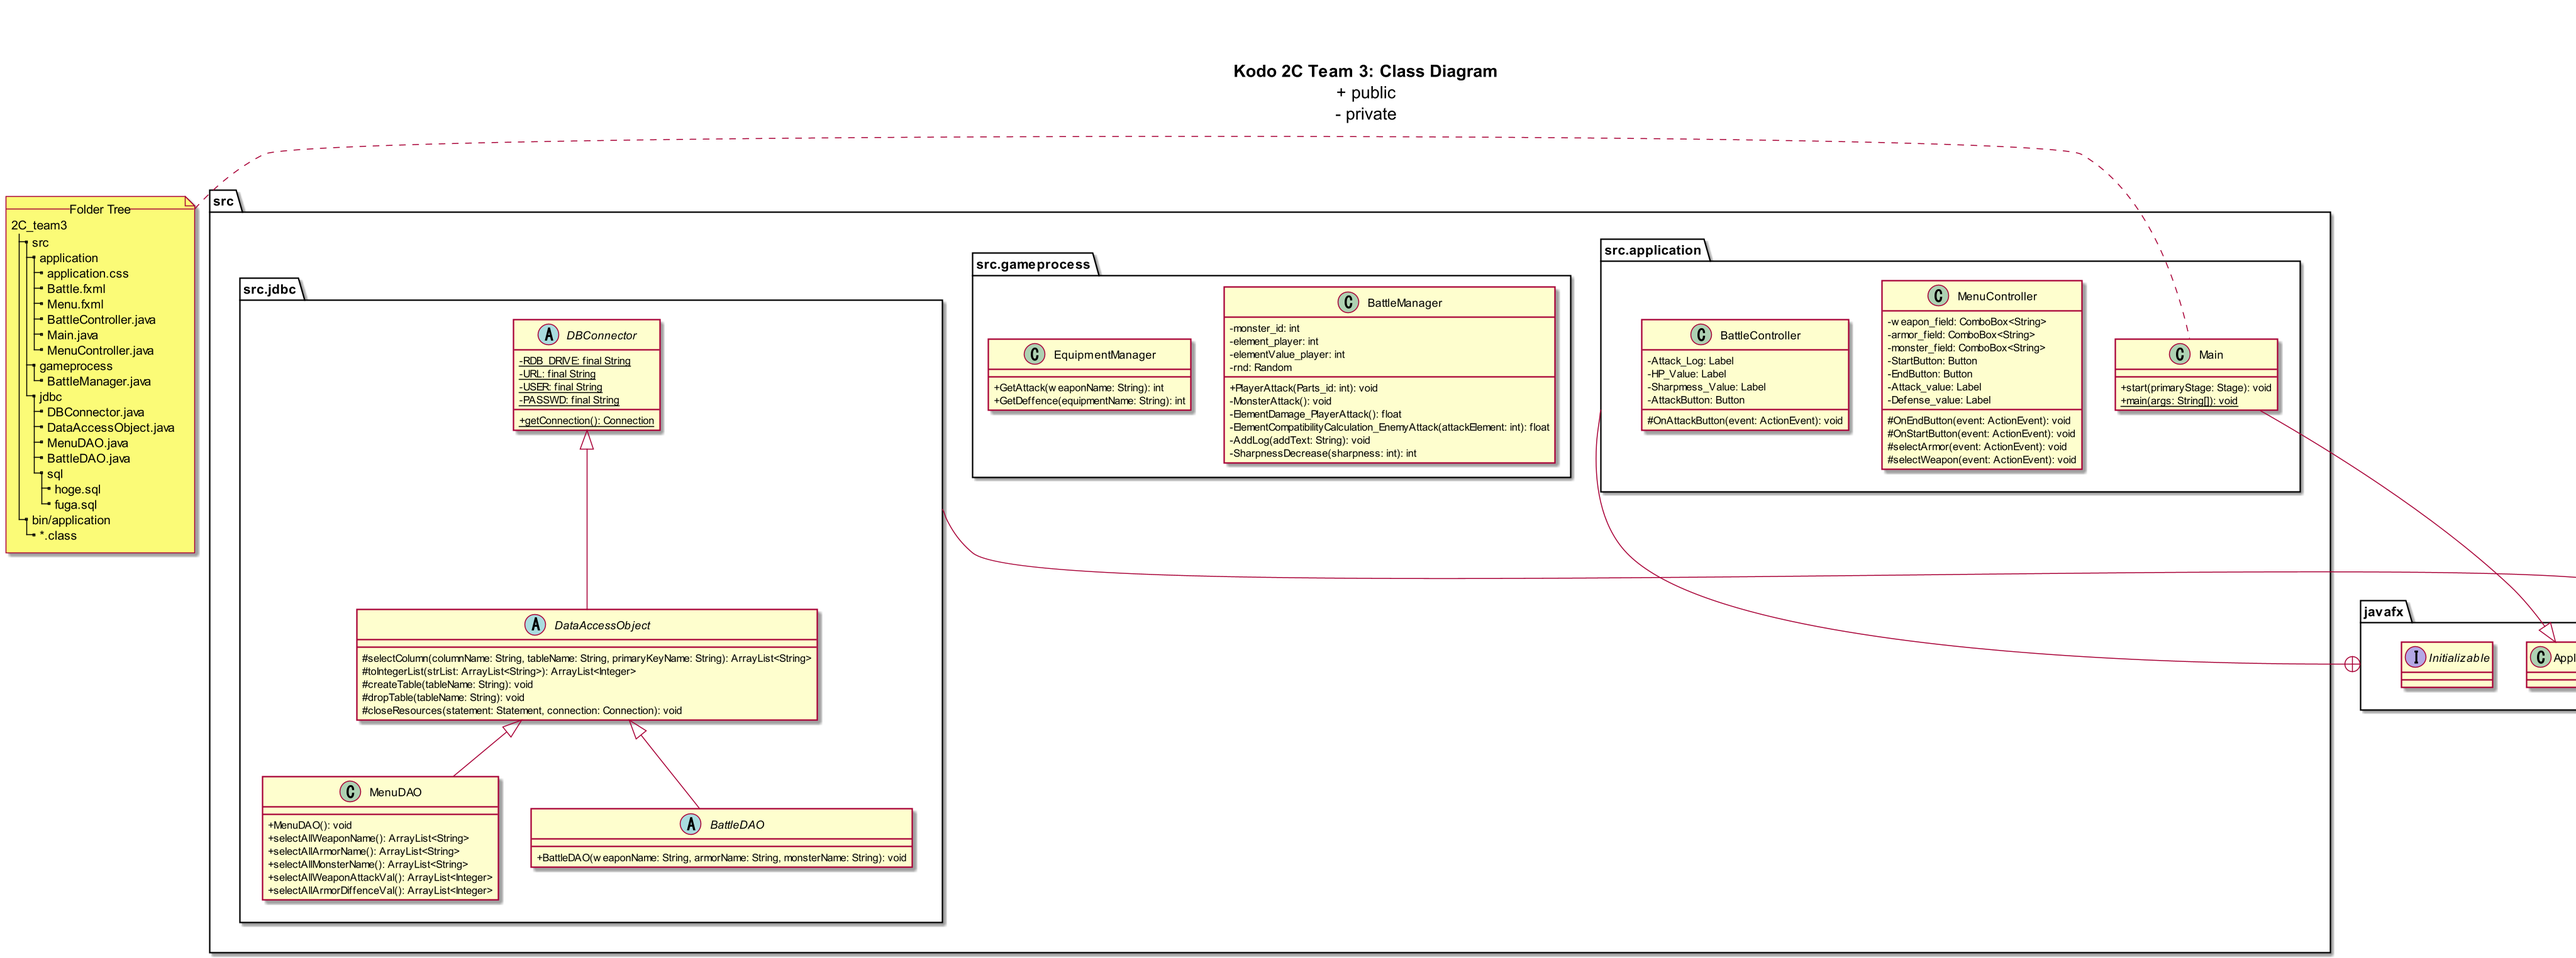
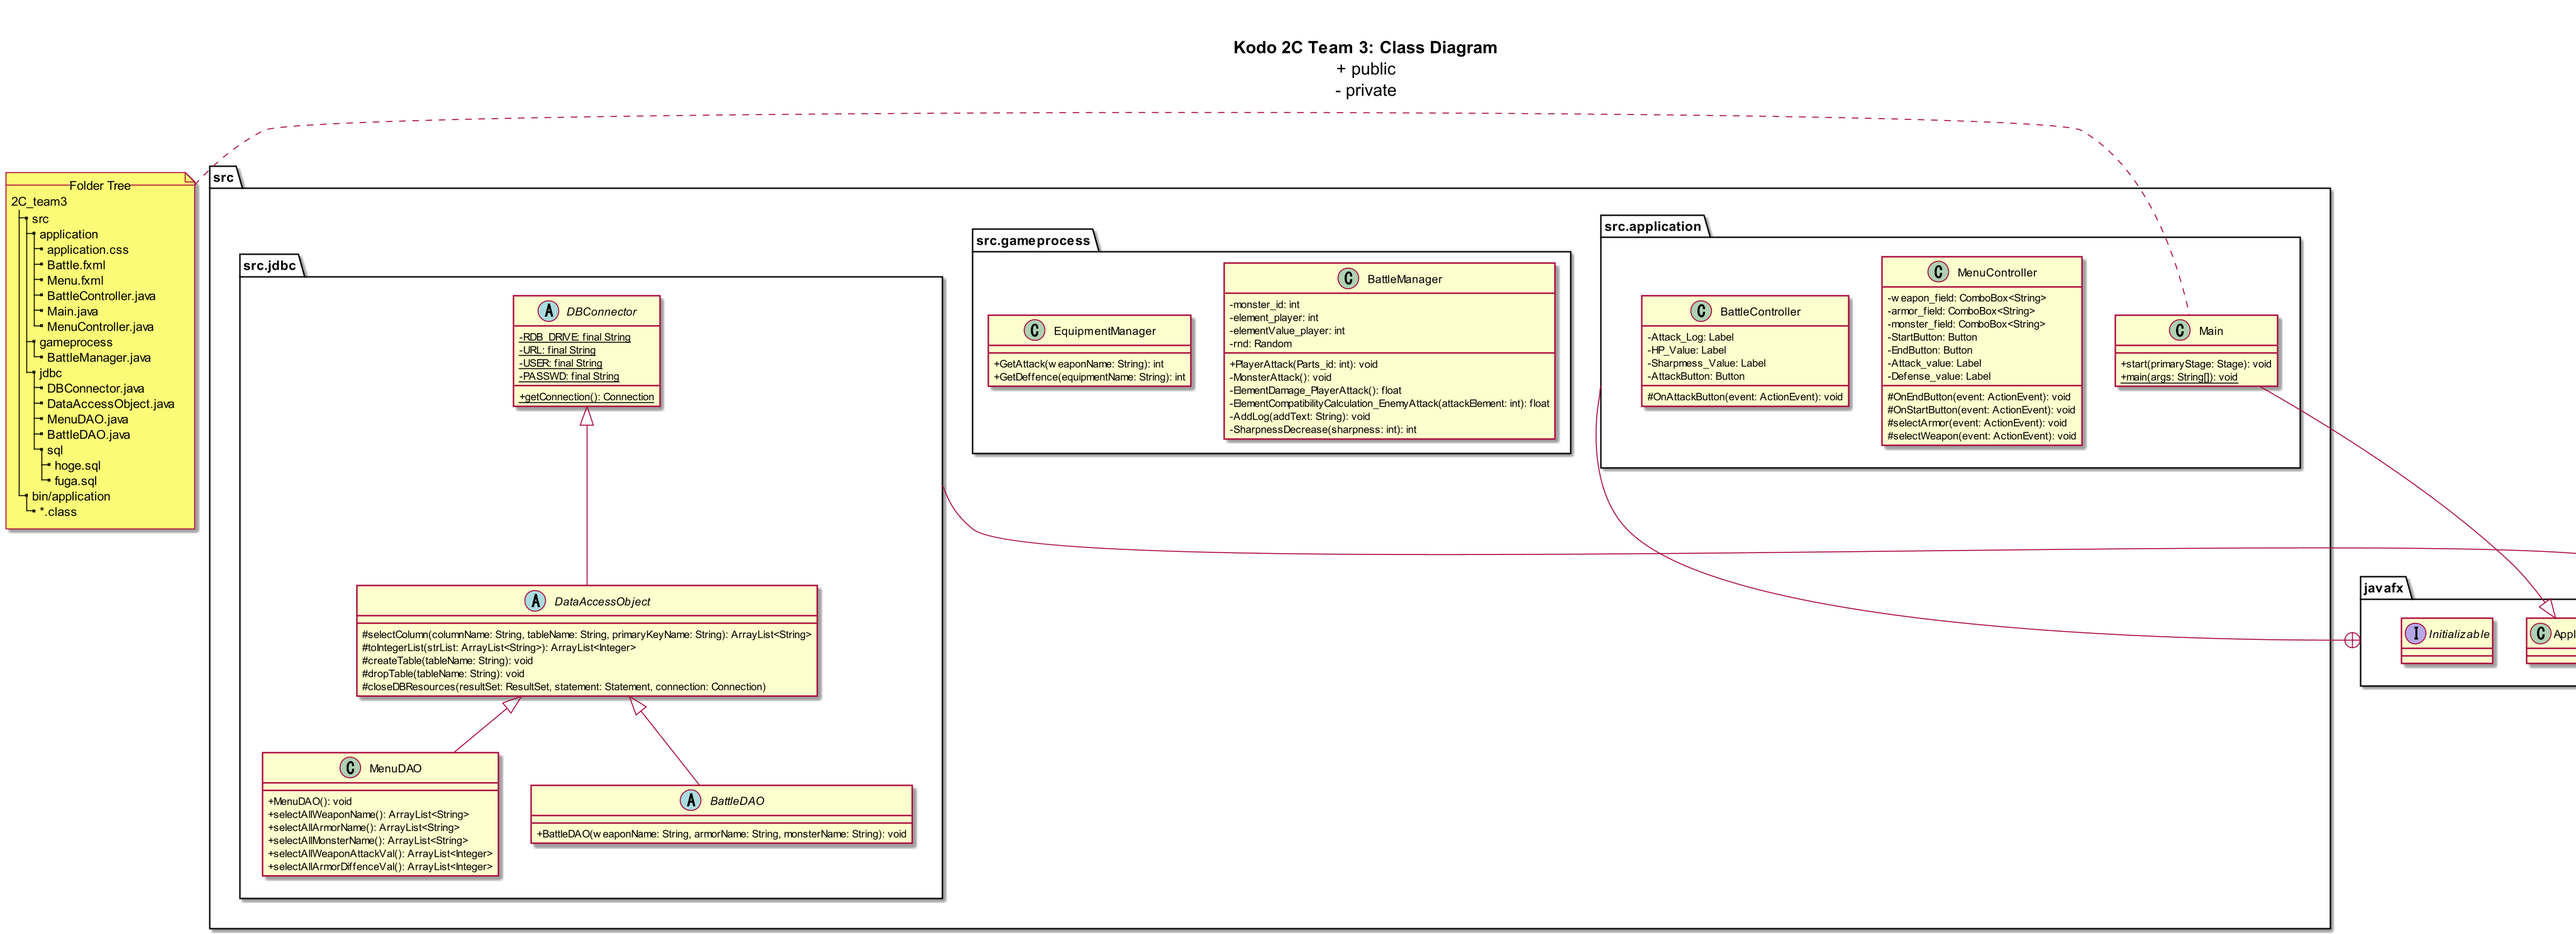
DataAccessObject：ResultSetをクローズ

diff --git a/MonsterHunter/src/jdbc/DataAccessObject.java b/MonsterHunter/src/jdbc/DataAccessObject.java
@@ -3,10 +3,10 @@
 * @brief     DAOの汎用部分を実装する抽象クラス
 * @note      高度情報演習2C 後半 木村教授担当分 Team3
 * @auther    AL18036 Kataoka Nagi
-* @date      2020-12-27 04:00:43
+* @date      2020-12-27 22:02:07
 * $Version   1.0
-* $Revision  1.1
-* @par       追加：createTableメソッド，dropTableメソッドの形のみ
+* $Revision  1.2
+* @par       編集：ResultSetをクローズ
 * @see       https://www.kenschool.jp/blog/?p=1644
  */
 
@@ -32,6 +32,7 @@ abstract class DataAccessObject extends DBConnector {
   protected ArrayList<String> selectColumn(String columnName, String tableName, String primaryKeyName) {
     Connection connection = null; // ! DBコネクション
     Statement statement = null; // ! SQLステートメント
+    ResultSet resultSet = null; // ! SQLリザルトセット
     ArrayList<String> rtnColumnList = new ArrayList<String>();
 
     // SQL文の作成
@@ -48,11 +49,11 @@ abstract class DataAccessObject extends DBConnector {
       statement = connection.createStatement();
 
       // SQL文発行
-      ResultSet rs = statement.executeQuery(sql);
+      resultSet = statement.executeQuery(sql);
 
       // 検索結果をArrayListに格納
-      while (rs.next()) {
-        rtnColumnList.add(rs.getString("isbn"));
+      while (resultSet.next()) {
+        rtnColumnList.add(resultSet.getString("isbn"));
       }
 
       // 例外処理
@@ -61,7 +62,7 @@ abstract class DataAccessObject extends DBConnector {
 
       // 後処理
     } finally {
-      this.closeResources(statement, connection);
+      this.closeDBResources(resultSet, statement, connection);
     }
 
     return rtnColumnList;
@@ -86,7 +87,7 @@ abstract class DataAccessObject extends DBConnector {
    * @brief SQL文でよく使うカラムを非正規化する汎用メソッド
    */
   protected void createTable(String tableName) {
-    // TODO
+    // TOD
   }
 
   /**
@@ -98,12 +99,21 @@ abstract class DataAccessObject extends DBConnector {
   }
 
   /**
-   * @fn closeResources
-   * @brief ステートメントとコネクションをこの順番にクローズする
+   * @fn closeDBResources
+   * @brief 後処理
+   * @note 後処理の順番 = 前処理の順番の逆
    * @param[in] statement: DBのステートメント
    * @param[in] connection: DBの接続情報
    */
-  protected void closeResources(Statement statement, Connection connection) {
+  protected void closeDBResources(ResultSet resultSet, Statement statement, Connection connection) {
+    // resultsetの後処理
+    if (resultSet != null) {
+      try {
+        resultSet.close();
+      } catch (SQLException ignore) { // ! よくわかってないけど他のを真似した
+      }
+    }
+
     // statementの後処理
     if (statement != null) {
       try {
